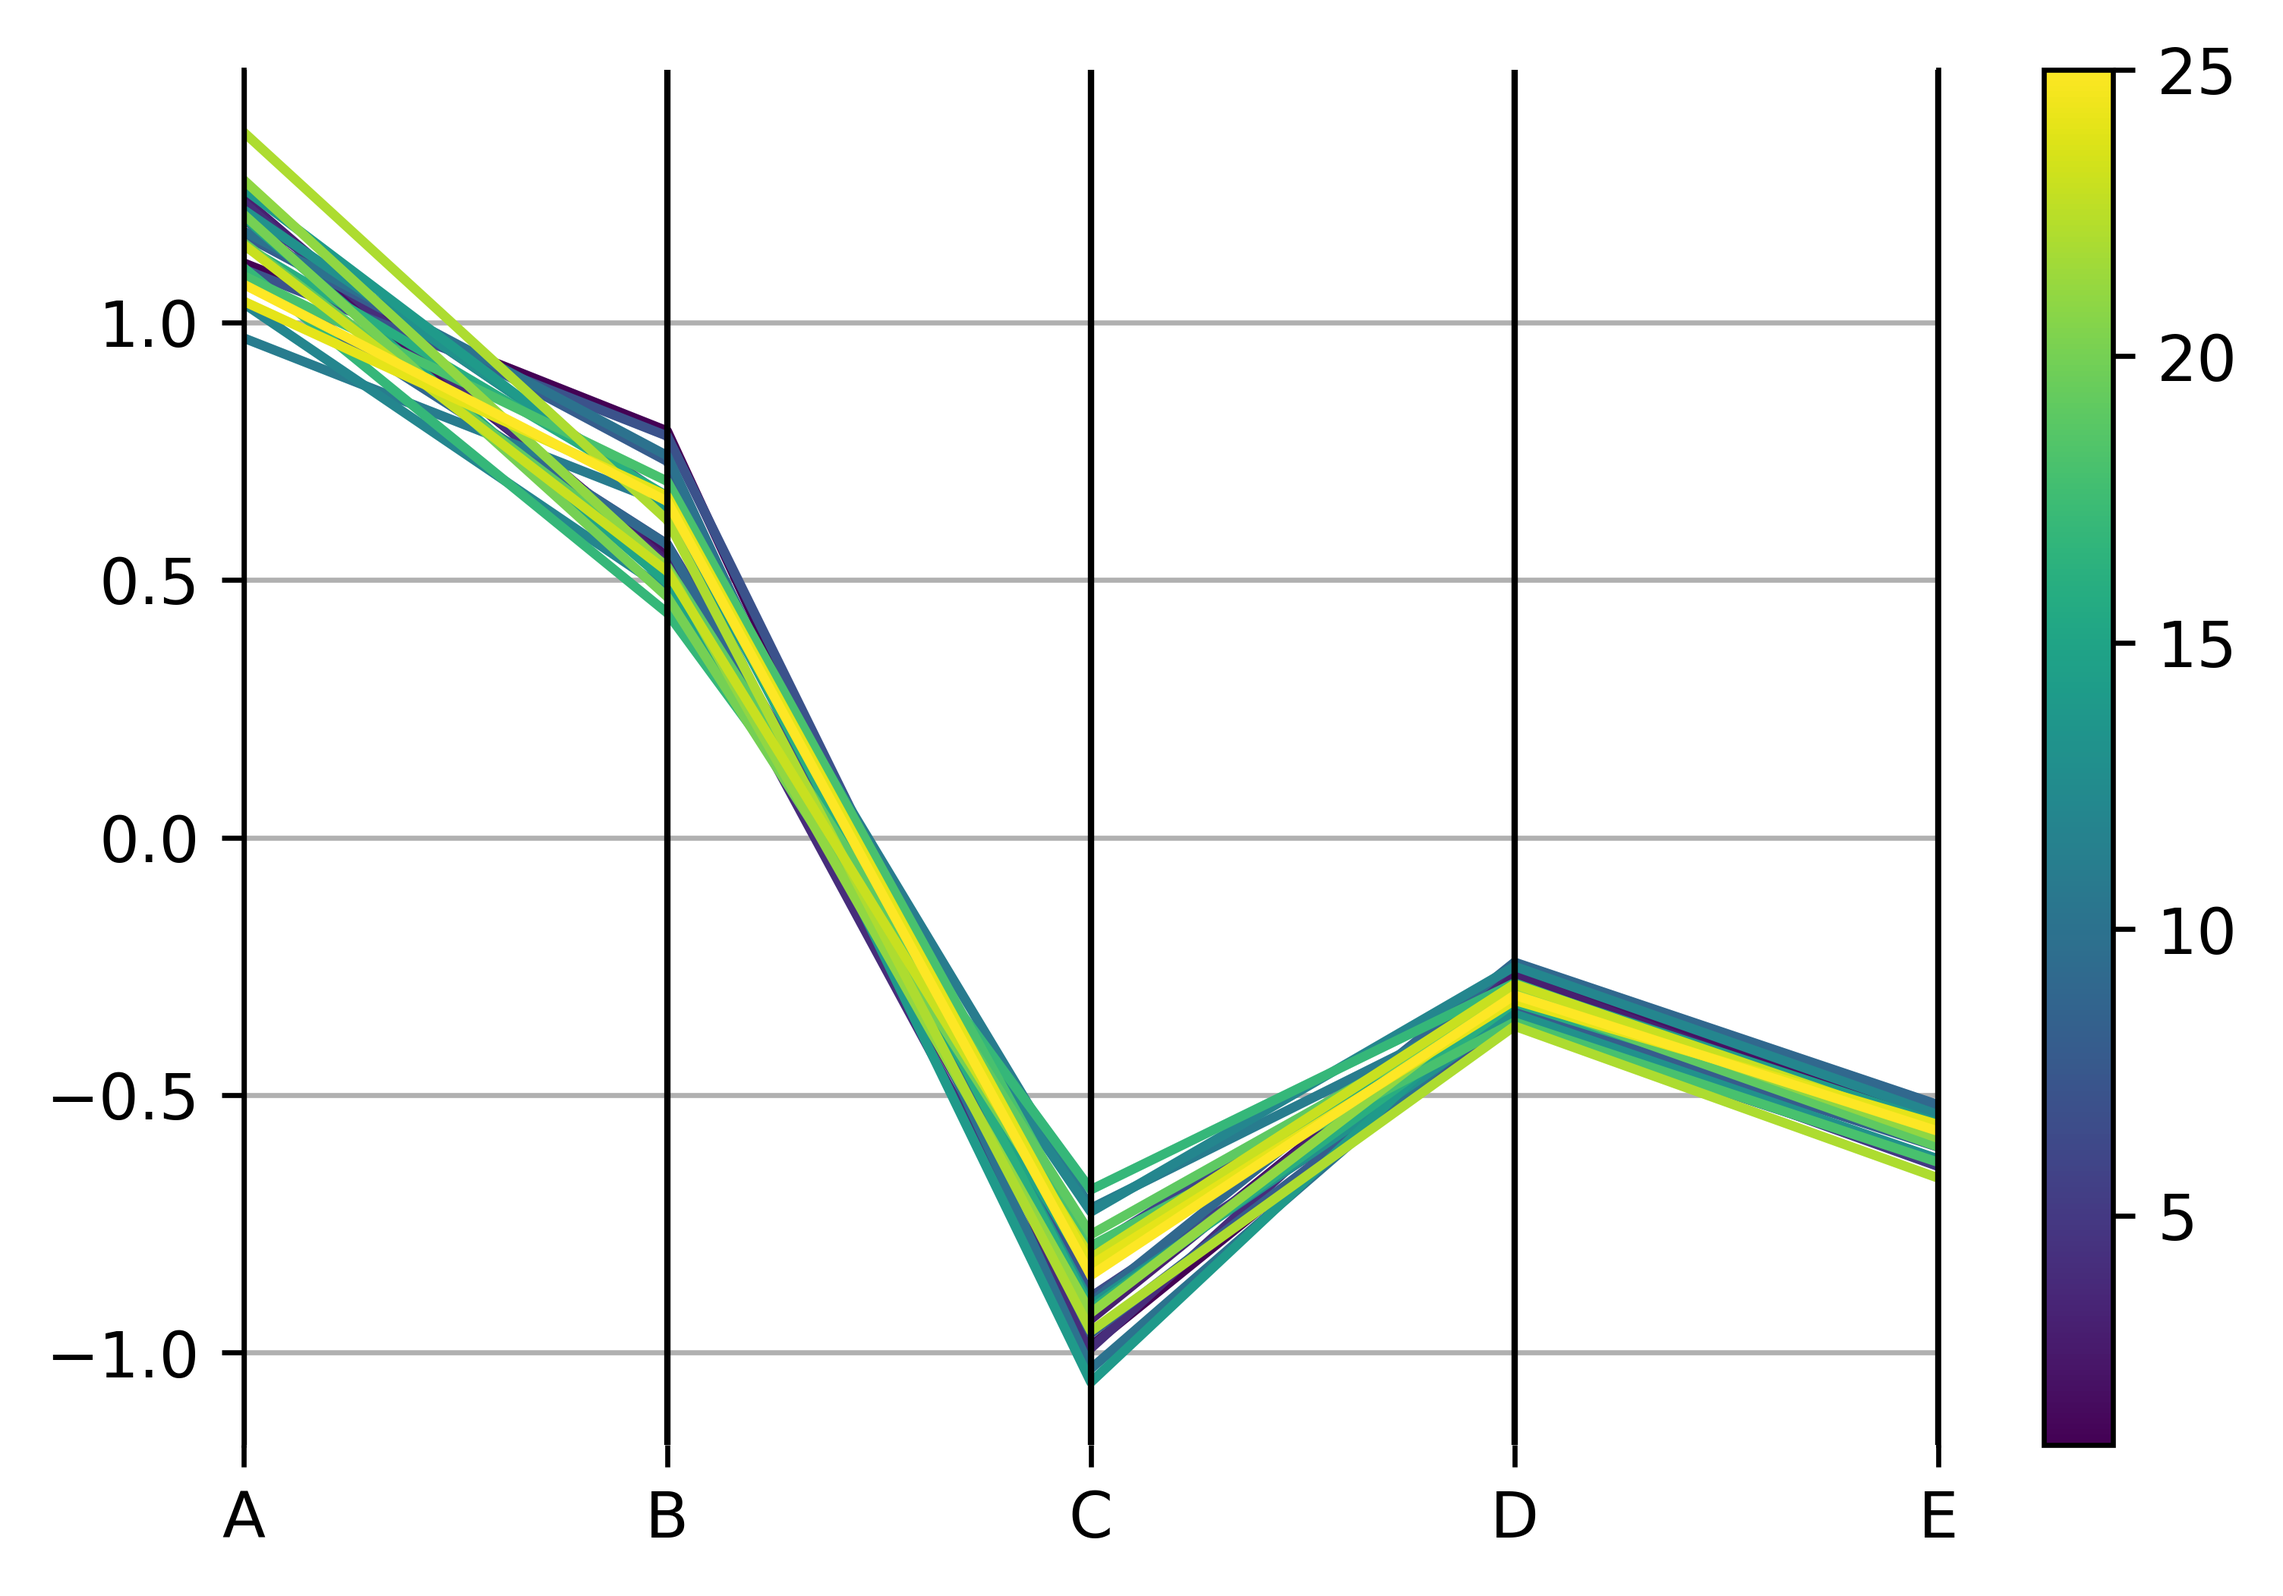
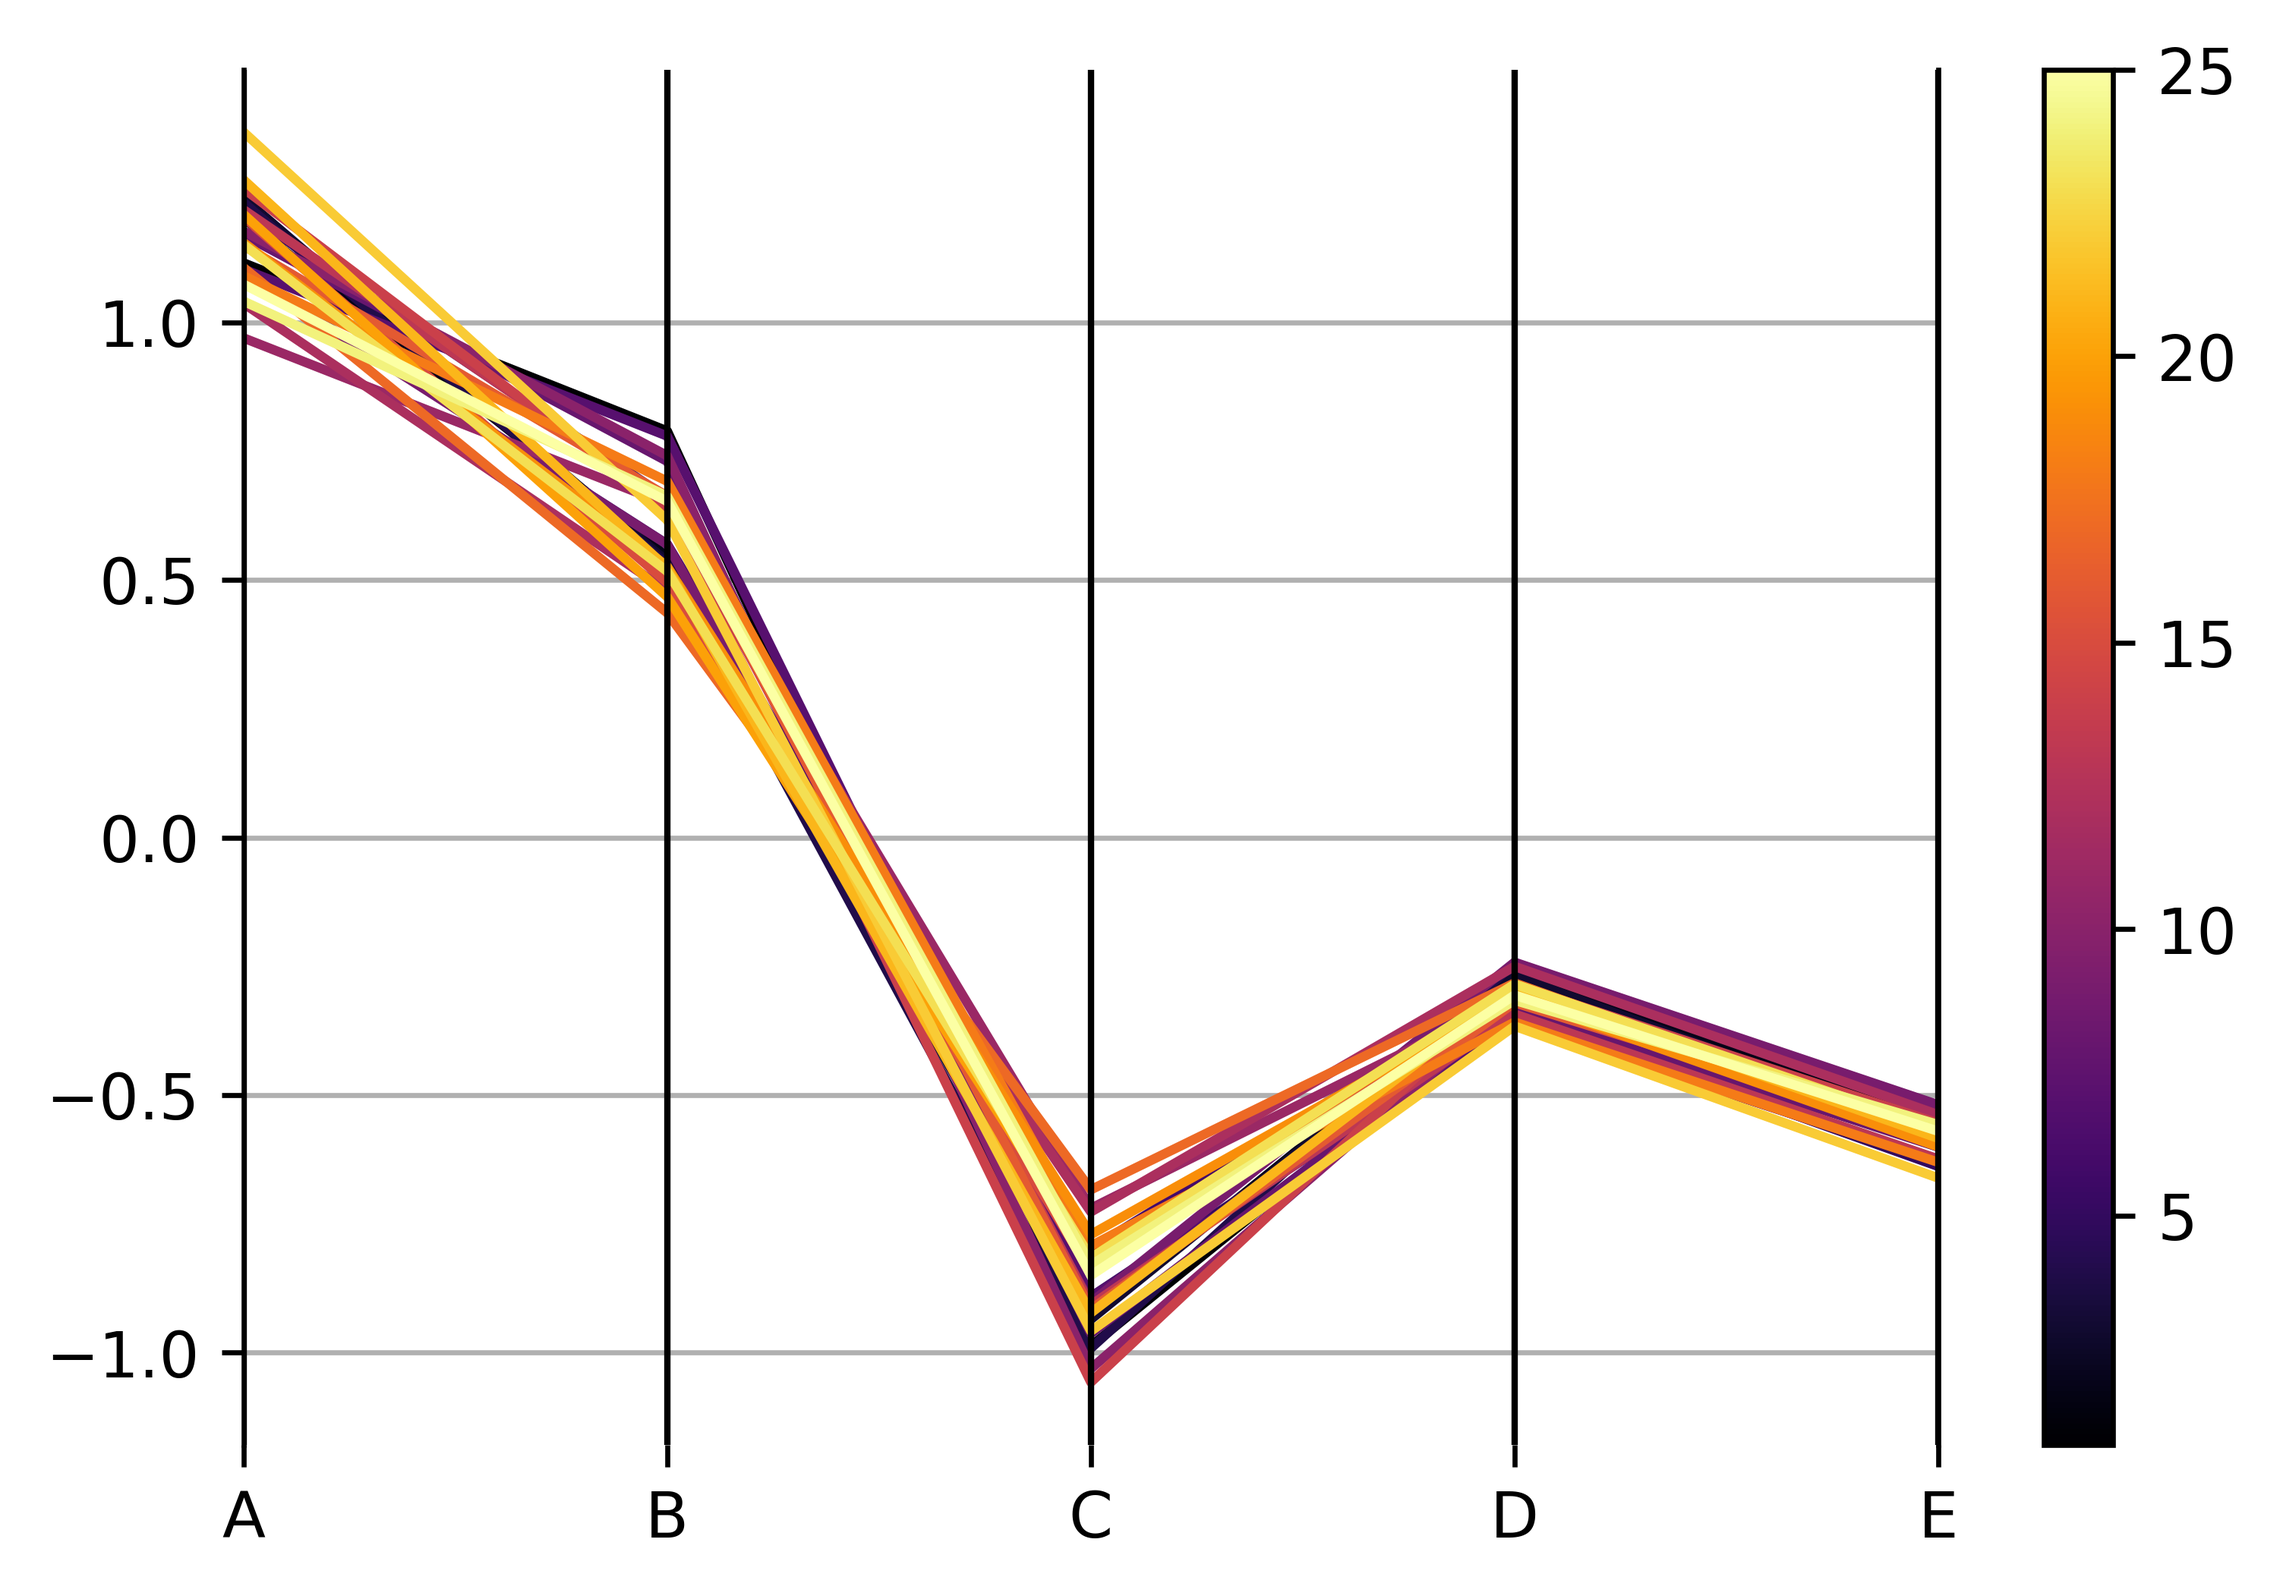
Update plot.parallel example, contributors

Changed region(s): [[0.0928, 0.0927, 0.866, 0.8654], [0.8969, 0.0309, 0.9278, 0.9272]]

diff --git a/docs/examples/plotting/parallel.py b/docs/examples/plotting/parallel.py
@@ -24,19 +24,20 @@ save_figure(ax.figure, save_at="../../source/_static", name="parallel_rescale")
 # %% CLR
 from pyrolite.util.skl.transform import CLRTransform
 
+cmap = "inferno"
 compdata = df.copy()
 compdata[comp] = CLRTransform().transform(compdata[comp])
-ax = compdata.loc[:, comp].pyroplot.parallel(color_by=compdata.Depth.values)
+ax = compdata.loc[:, comp].pyroplot.parallel(color_by=compdata.Depth.values, cmap=cmap)
 
 # we can add a meaningful colorbar to indicate one variable also, here Depth
-sm = plt.cm.ScalarMappable(cmap="viridis")
+sm = plt.cm.ScalarMappable(cmap=cmap)
 sm.set_array(df.Depth)
 plt.colorbar(sm)
 # %% save
 save_figure(ax.figure, save_at="../../source/_static", name="parallel_CLR")
 # %% CLR Rescale
 ax = compdata.loc[:, comp].pyroplot.parallel(
-    rescale=True, color_by=compdata.Depth.values
+    rescale=True, color_by=compdata.Depth.values, cmap=cmap
 )
 plt.colorbar(sm)
 # %% save

diff --git a/docs/source/usage/eg/plotting/parallel.rst b/docs/source/usage/eg/plotting/parallel.rst
@@ -1,6 +1,10 @@
 Parallel Coordinate Plots
 ============================
 
+Parallel coordinate plots are one way to visualise data relationships and clusters in
+higher dimensional data. pyrolite now includes an implementation of this which allows
+a handy quick exploratory visualisation.
+
 .. literalinclude:: ../../../../examples/plotting/parallel.py
    :language: python
    :end-before: # %% Data
@@ -19,6 +23,9 @@ Parallel Coordinate Plots
    :width: 50%
    :align: center
 
+By rescaling this using the mean and standard deviation, we can account for scale
+differences between variables:
+
 .. literalinclude:: ../../../../examples/plotting/parallel.py
   :language: python
   :start-after: # %% Default Rescale
@@ -27,6 +34,9 @@ Parallel Coordinate Plots
 .. image:: ../../../_static/parallel_rescale.png
    :width: 50%
    :align: center
+
+We can also use a centred-log transform for compositional data to reduce the effects
+of spurious correlation:
 
 .. literalinclude:: ../../../../examples/plotting/parallel.py
   :language: python
@@ -37,6 +47,9 @@ Parallel Coordinate Plots
    :width: 50%
    :align: center
 
+Further, we can also rescale this if there remain significant scale differences (e.g.
+majors and traces):
+
 .. literalinclude:: ../../../../examples/plotting/parallel.py
   :language: python
   :start-after: # %% CLR Rescale
@@ -45,3 +58,6 @@ Parallel Coordinate Plots
 .. image:: ../../../_static/parallel_CLR_rescale.png
    :width: 50%
    :align: center
+
+
+.. note:: Feature suggested by `Justin Gosses <https://github.com/JustinGOSSES>`__.

diff --git a/docs/source/contributors.rst b/docs/source/contributors.rst
@@ -4,8 +4,9 @@ Contributors
 This list includes people who have contributed to the project in the form of code,
 comments, testing, bug reports, feature requests.
 
-* Morgan Williams
+* `Morgan Williams <https://github.com/morganjwilliams>`__`
 * Hayden Dalton
-* Louise Schoneveld
+* `Louise Schoneveld <https://github.com/lavender22>`__
 * Adam Bath
 * Yajing Mao
+* `Justin Gosses <https://github.com/JustinGOSSES>`__.
